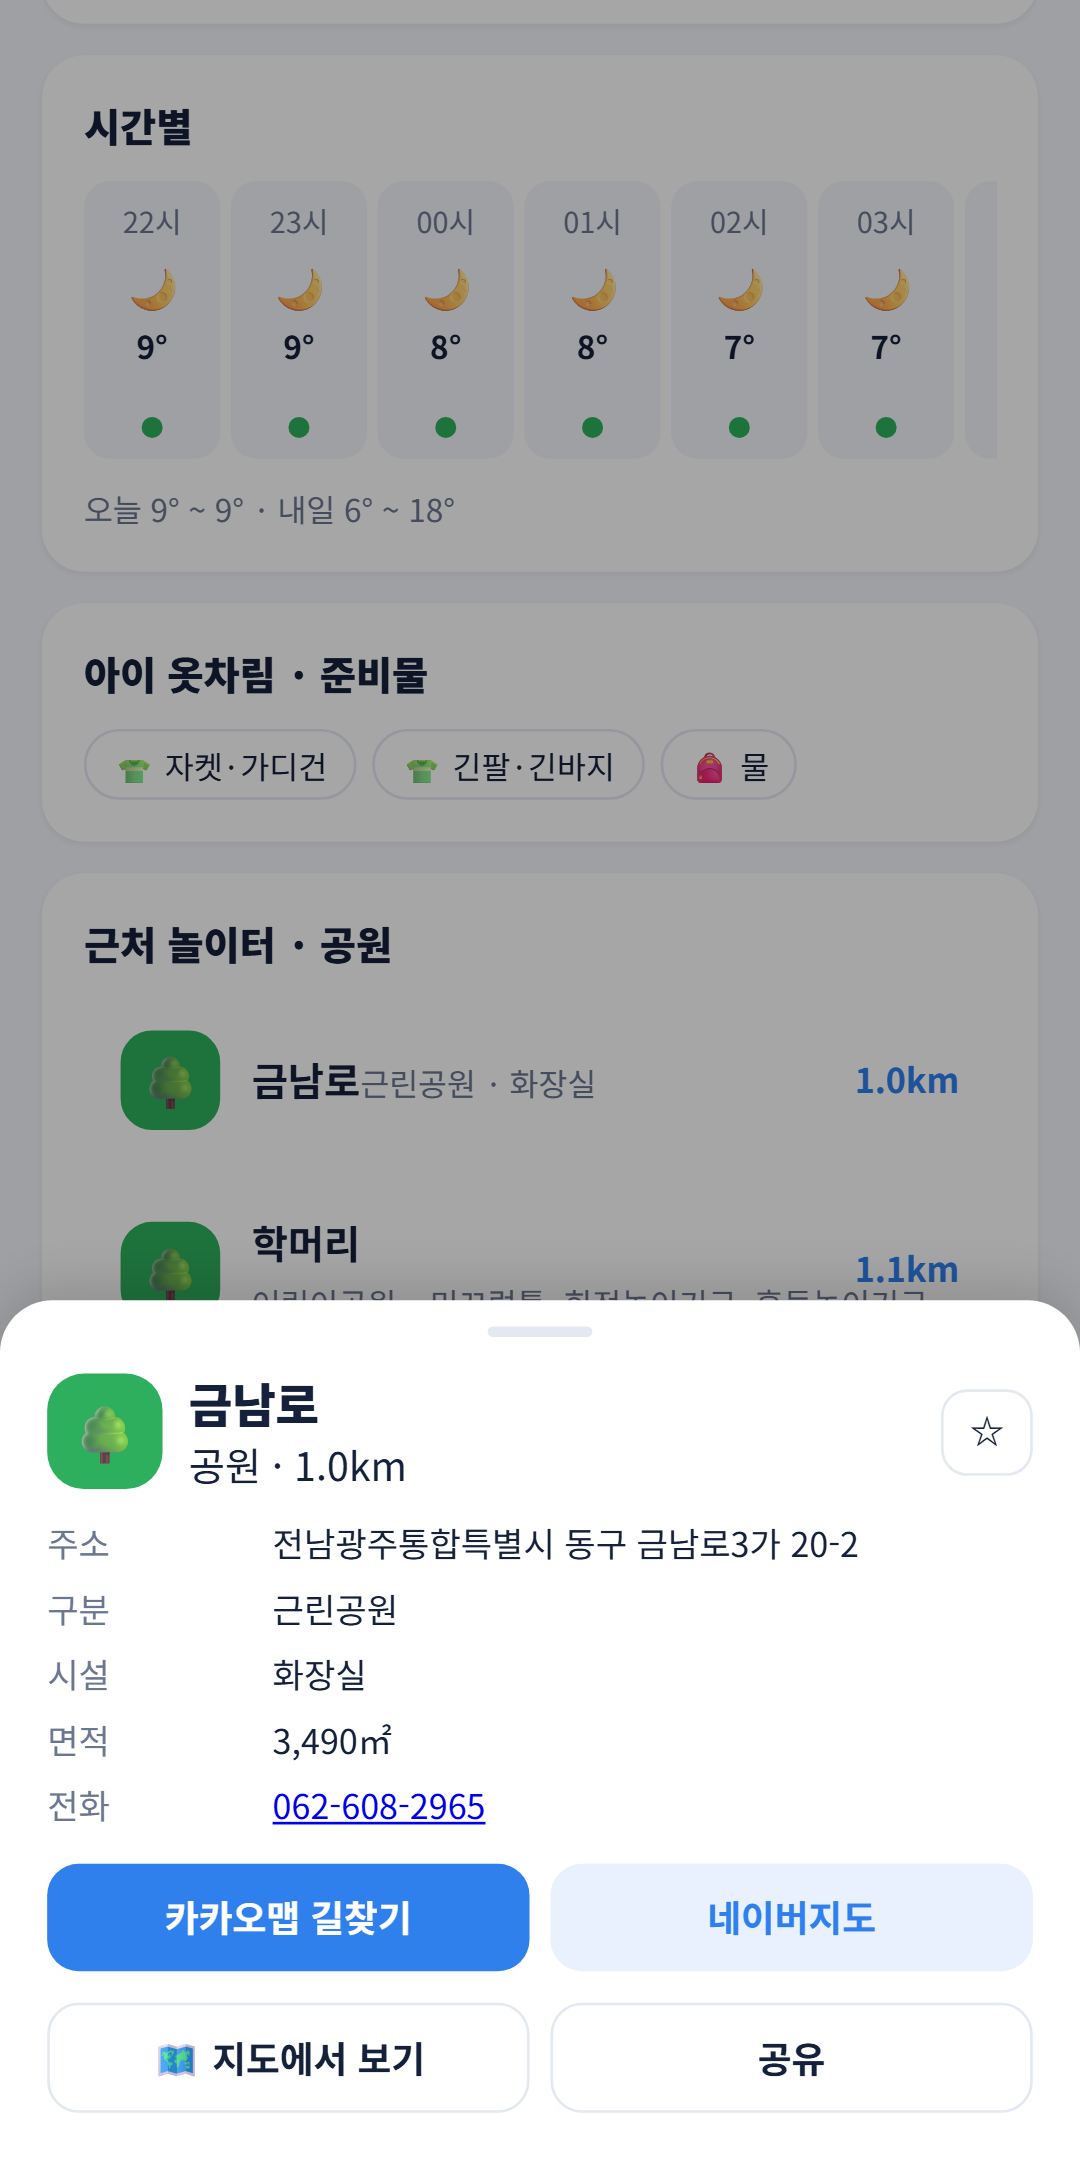
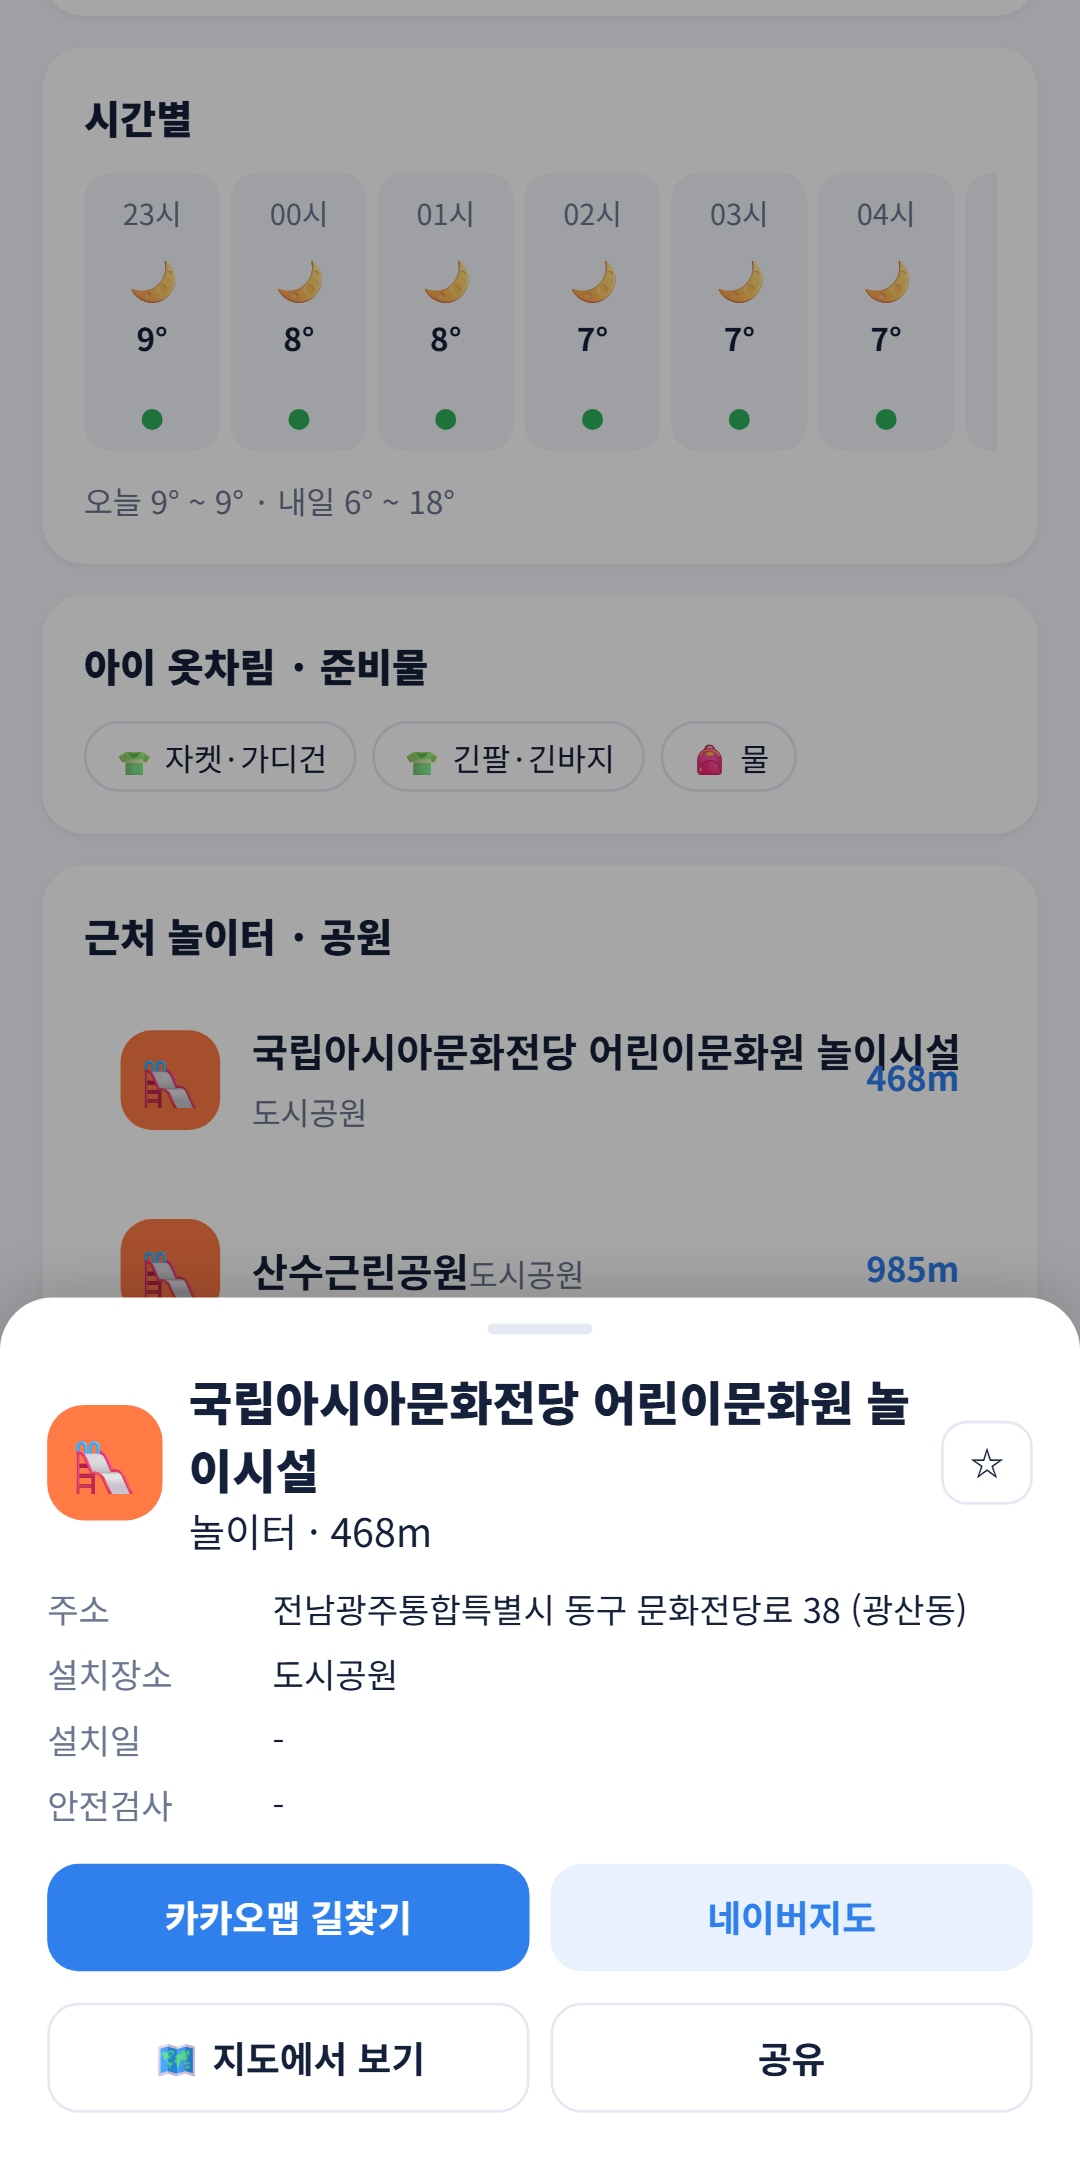
README: 놀이터 데이터 출처 갱신, 스토어 스크린샷 갱신(놀이터 마커 포함)

diff --git a/README.md b/README.md
@@ -8,8 +8,9 @@
 ```
 pipeline/                  데이터 파이프라인(GitHub Actions 에서 실행, 로컬에서도 가능)
   sources/standard-data.ts 공공데이터포털 표준데이터(도시공원 18,376 · 공중화장실 33,820) 다운로드 — 키 불필요
-  sources/cpf-crawl.ts     행안부 어린이놀이시설 안전관리시스템 목록 85,414건 수집(12건/페이지, 스로틀, 캐시)
-  geocode.ts               놀이터 주소 → 좌표 (브이월드 / 카카오, 키 필요, 캐시 누적)
+  sources/pfct-api.ts      행안부 전국어린이놀이시설정보 API(data.go.kr 15124519) 85,416건 — 위경도·공공/민간·실내외·물놀이·우수시설 포함, 1,000건×86페이지
+  sources/cpf-crawl.ts     (예비) 행안부 어린이놀이시설 안전관리시스템 목록 크롤링 — 안전검사 상태 보강용
+  geocode.ts               (예비) 주소 → 좌표. 브이월드·카카오는 결과 저장을 금지하므로 운영에는 쓰지 않음
   build-places.ts          → data/places/{시군구}.json, data/index.json(시군구 255개 중심좌표·기상청 격자), meta.json
   fetch-weather.ts         → data/wx/{시군구}.json (단기예보 48h, 실황, 자외선·꽃가루·감기지수, 미세먼지). 키 없으면 --mock
   sgg.ts / data/sgg-codes.json  법정동코드 기반 시도·시군구 표 + 주소 매칭(2026년 전남광주통합특별시, 인천 제물포구·영종구 반영)
